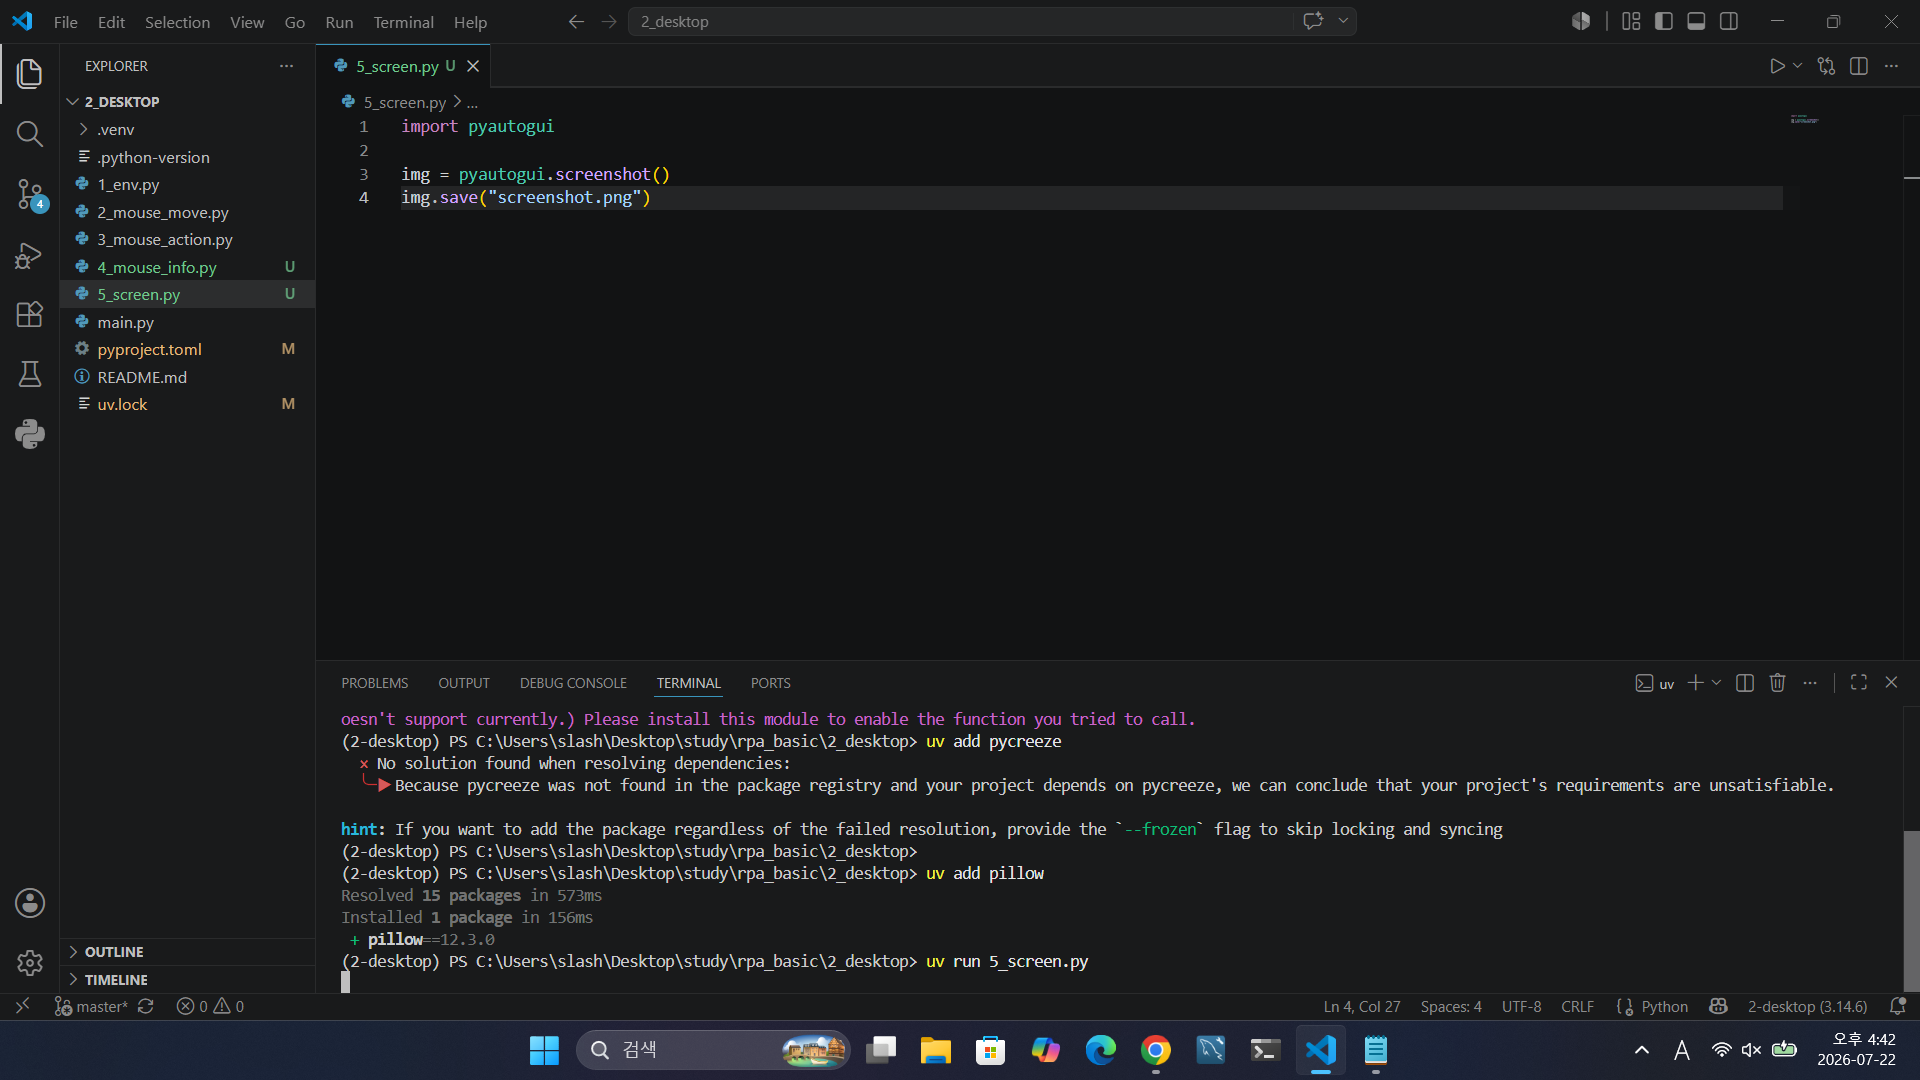
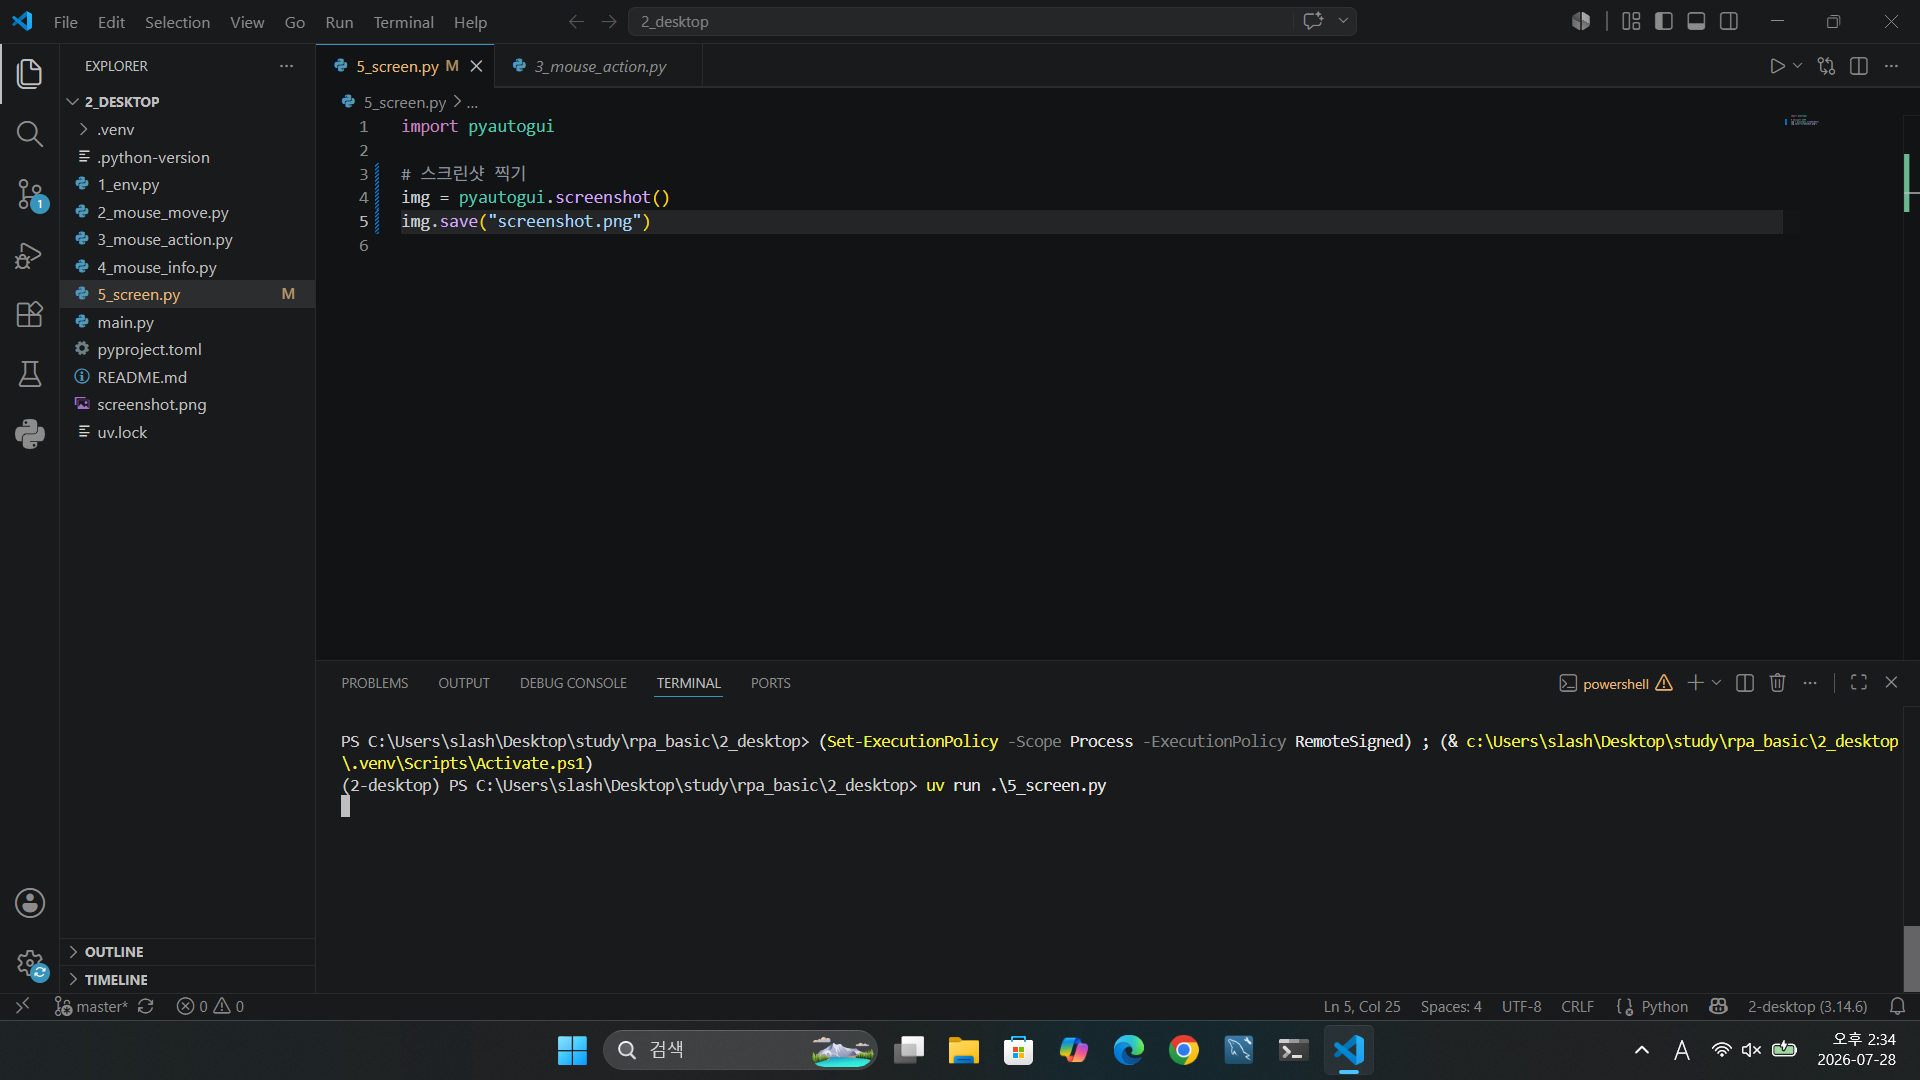
RPA_260728

diff --git a/rpa_basic/2_desktop/6_image_recognition.py b/rpa_basic/2_desktop/6_image_recognition.py
@@ -1,0 +1,25 @@
+import pyautogui
+
+# 파일 메뉴 클릭
+# file_menu = pyautogui.locateOnScreen("file_menu.png") # file_menu.png와 같은 이미지를 스크린에서 찾아서 위치와 크기를 저장
+# print(file_menu)
+# pyautogui.click(file_menu)
+
+# 쓰레기통 아이콘으로 이동
+# trash_can = pyautogui.locateOnScreen("trash_can.png")
+# print(trash_can)
+# pyautogui.moveTo(trash_can)
+
+# 이미지가 일치 하지 않을 때
+# screen = pyautogui.locateOnScreen("screenshot.png")
+# print(screen)
+
+# 하나의 화면에 여려개의 같은 이미지가 존재할 때(w3school의 html > checkbox 예제)
+
+# for i in pyautogui.locateAllOnScreen("checkbox.png"):
+#     print(i)
+#     pyautogui.click(i)
+
+# locateAll은 모든 이미지 vs On은 처음 찾는 이미지만
+checkbox = pyautogui.locateOnScreen("checkbox.png")
+pyautogui.click(checkbox)

diff --git a/rpa_basic/2_desktop/5_screen.py b/rpa_basic/2_desktop/5_screen.py
@@ -1,7 +1,6 @@
 import pyautogui
 
-# img = pyautogui.screenshot() # 스크린샷 찍기
-# img.save("screenshot.png") # 저장
-
-pyautogui.mouseInfo()
+# 스크린샷 찍기
+# img = pyautogui.screenshot()
+# img.save("screenshot.png")
 
